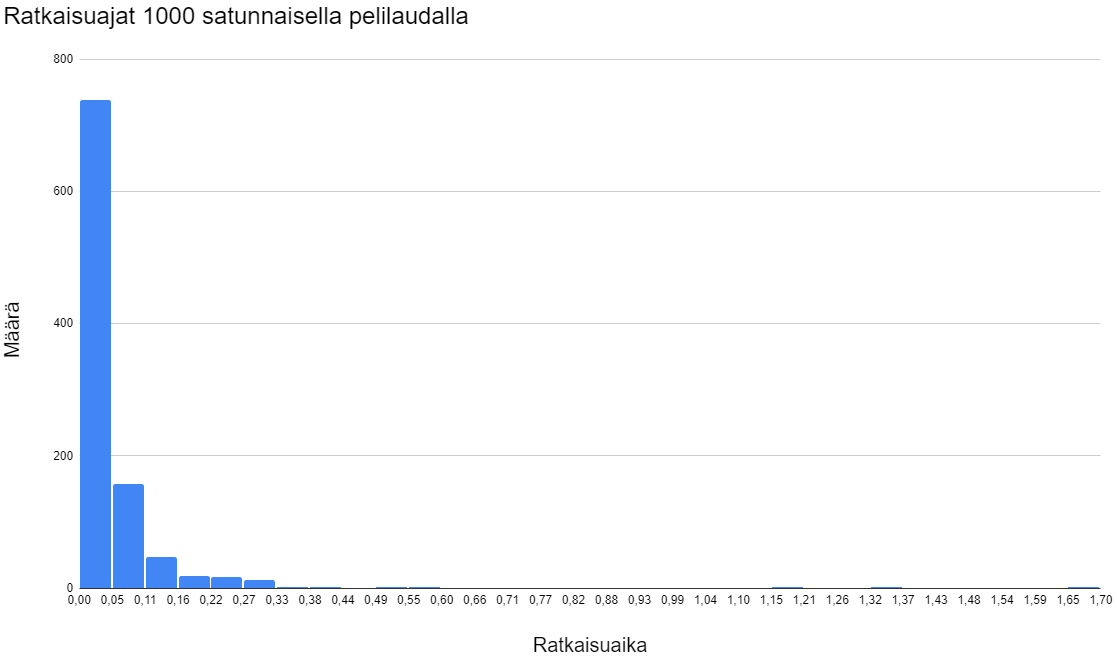
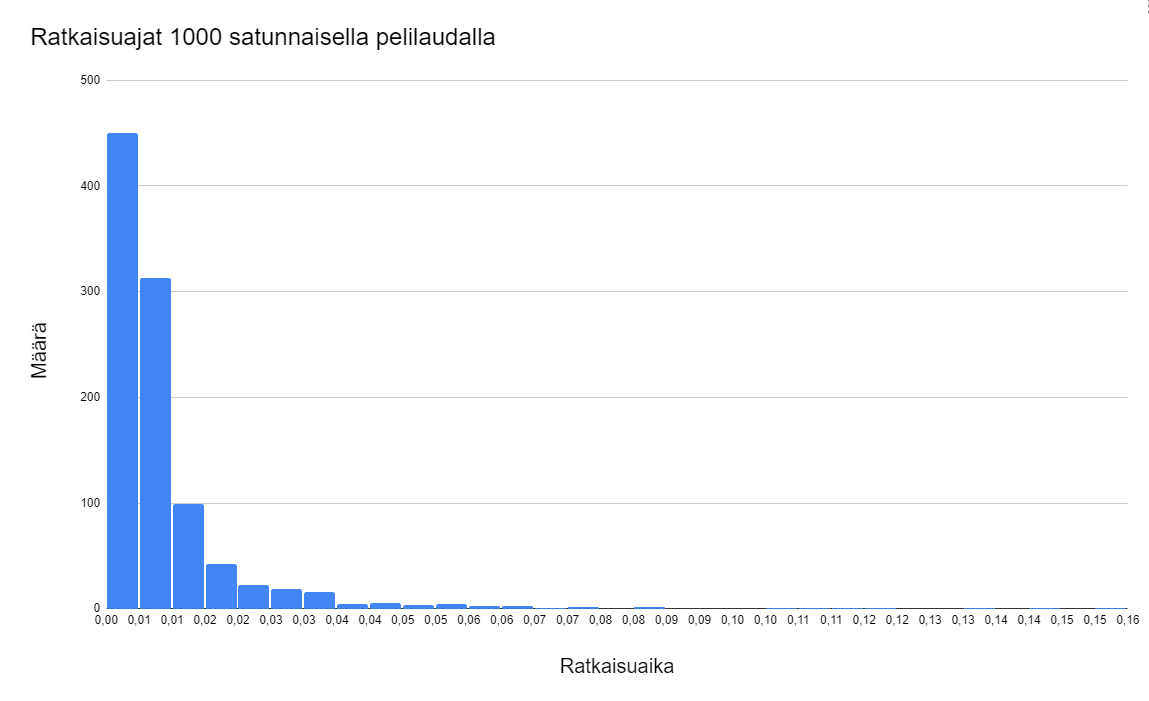
testausdokumentin kuva päivitetty

Changed region(s): [[0.0, 0.1522, 1.0, 1.0], [0.0, 0.0, 0.4261, 0.1218]]

diff --git a/dokumentaatio/viikkoraportit/viikko-7.md b/dokumentaatio/viikkoraportit/viikko-7.md
@@ -1,0 +1,9 @@
+# Viikkoraportti 5
+---
+Ajoin viimeisen algoritmitestin, jotta sain datapisteet algoritmin tehokkuuden graafiseen esitykseen.
+
+Käytetty aika sunnuntaina: 0.5 tuntia
+
+---
+Käytetty aika yhteensä viikon aikana: 0.5
+-
